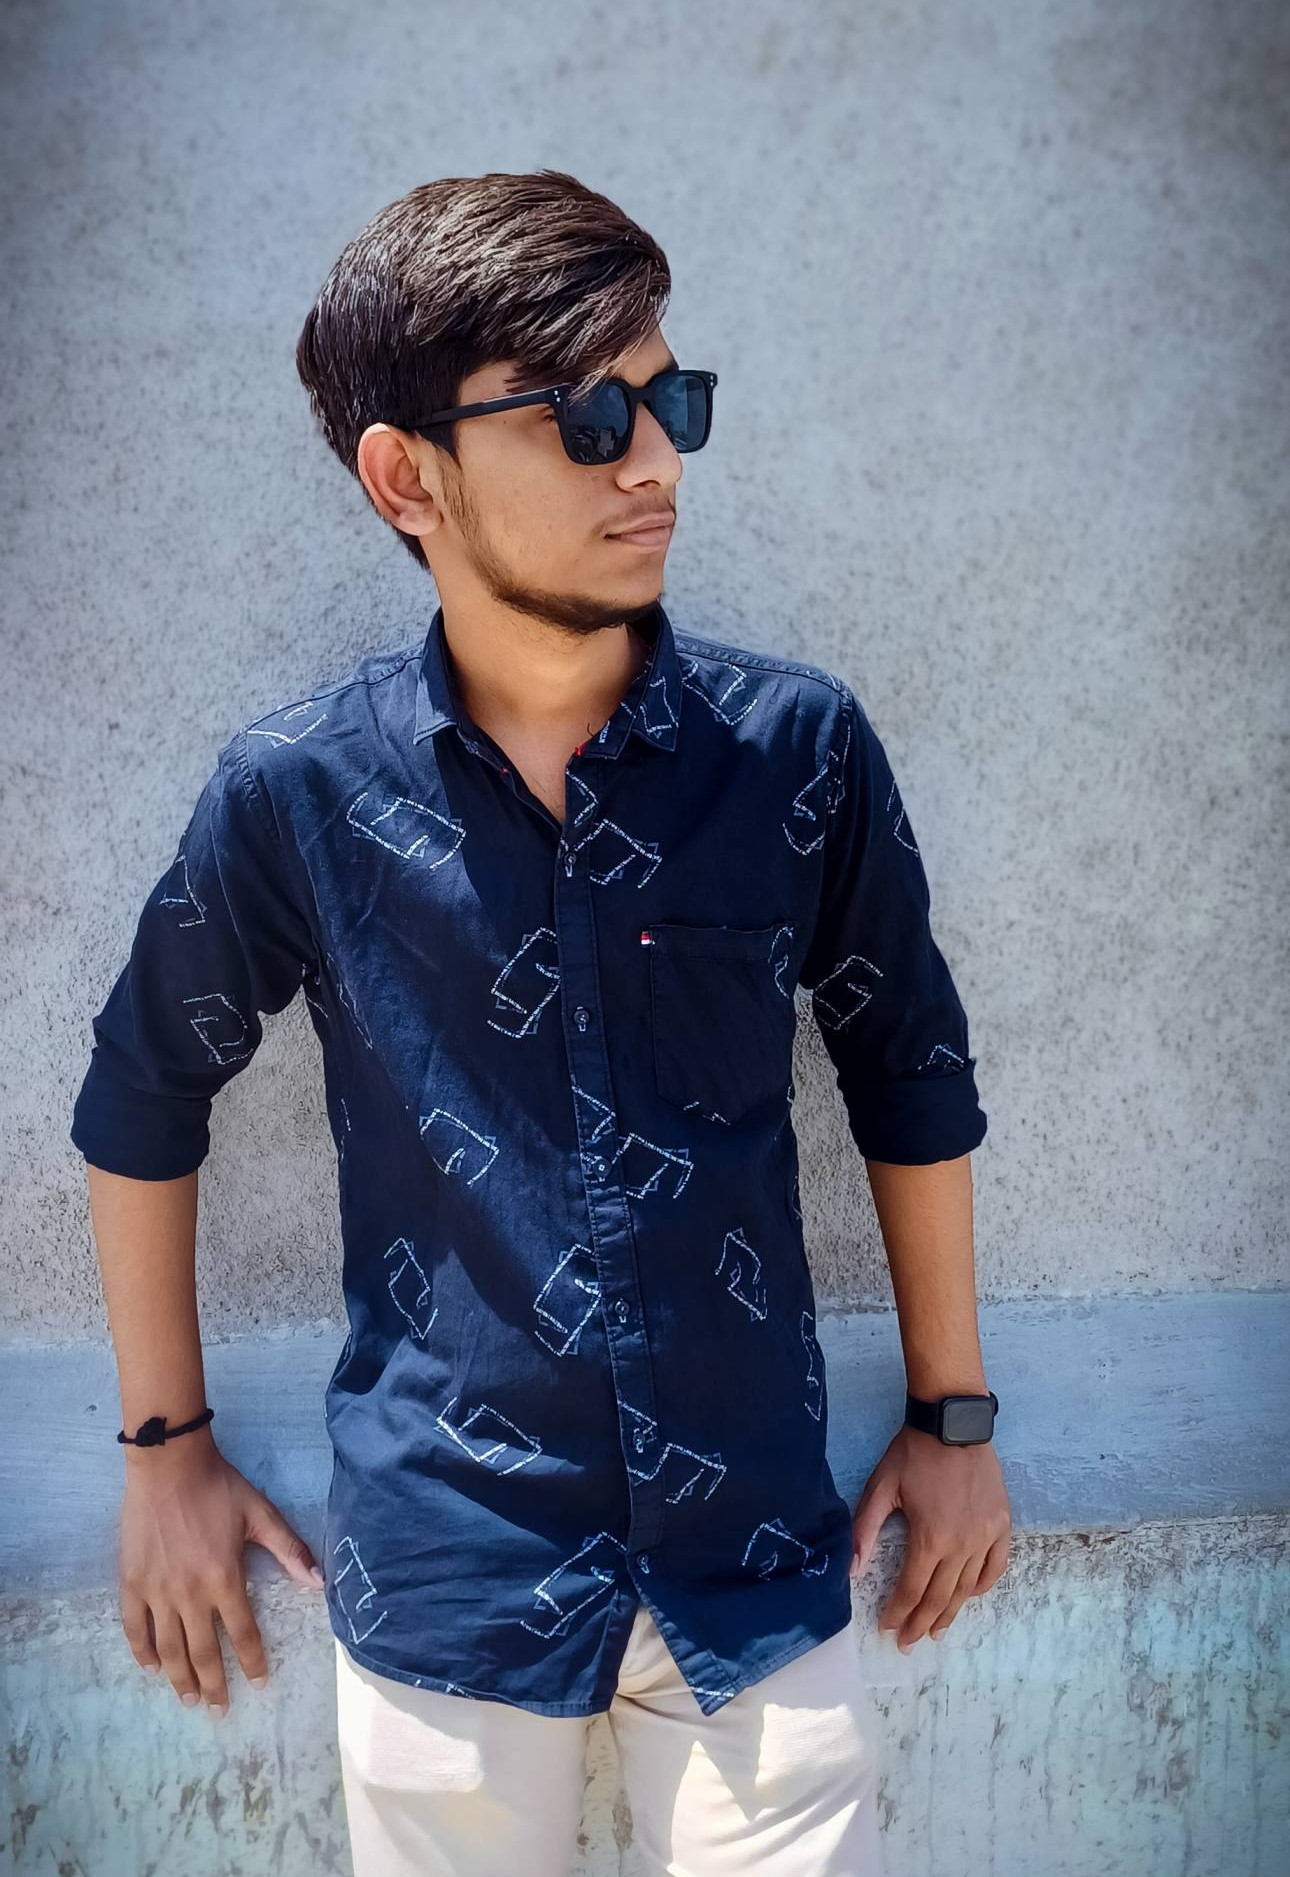
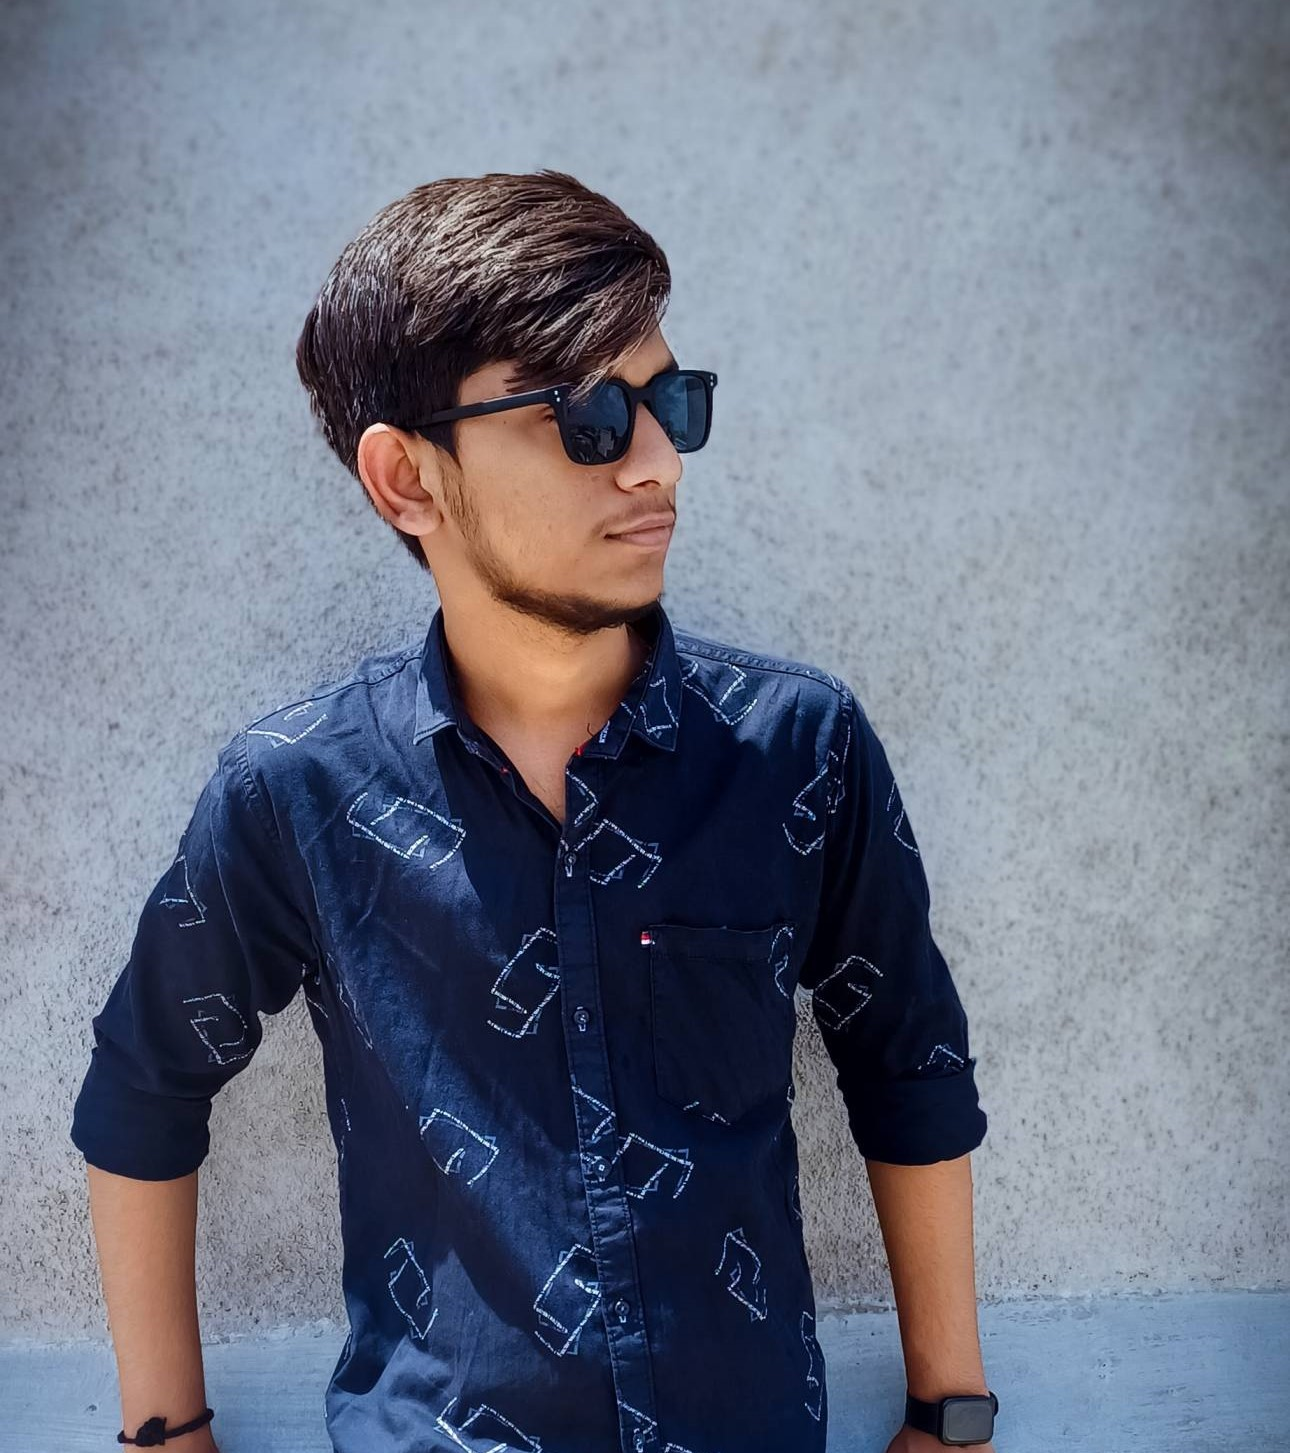
---

diff --git a/src/App.css b/src/App.css
@@ -330,7 +330,7 @@ html {
 
 .navigation {
   height: 100%;
-  width: 40%;
+  width: 45%;
   /* border: 1px solid white; */
   display: flex;
   align-items: center;
@@ -379,7 +379,7 @@ html {
 .devinfo {
   display: flex;
   height: 50%;
-  width: 50%;
+  width: 60%;
   /* border: 2px solid white; */
   flex-direction: column;
   justify-content: space-around;
@@ -387,20 +387,19 @@ html {
 }
 
 .devimg {
-  border: 1px solid white;
   width: 40%;
-  height: 60%;
+  height: 70%;
   display: flex;
   align-items: center;
   justify-content: center;
-  /* animation: jummping 4s infinite; */
 }
 
 .devimg img {
   border-radius: 100%;
   width: 70%;
-  /* height: 80%; */
+  height: 100%;
   filter: drop-shadow(0 0 1rem black);
+
   /* border: 2px solid white; */
 }
 
@@ -476,11 +475,12 @@ i {
   border: none;
   background-color: #0065ff;
   color: white;
-  border-radius: 1rem;
-  width: 20%;
-  height: 16%;
+  border-radius: 0.7rem;
+  width: 16%;
+  height: 14%;
   margin-top: 1.5rem;
-  font-size: 1.8rem;
+  font-size: 1.7rem;
+  letter-spacing: 1px;
   position: relative;
   /* animation: glow 2.5s infinite; */
   /* box-shadow: 0px 0px 2rem #0b4eb4 ; */
@@ -789,7 +789,7 @@ h4 {
   display: flex;
   flex-direction: column;
   justify-content: space-evenly;
-  border-radius: 1rem;
+  border-radius: 0.7rem;
   height: 29vh;
   width: 30%;
   margin: 2rem 2rem;
@@ -822,7 +822,7 @@ h4 {
   font-size: 1.4rem;
   width: 27%;
   /* border: 1px solid; */
-  border-radius: 048rem;
+  border-radius: 0.7rem;
   background-color: #0065ff;
   display: flex;
   align-items: center;

diff --git a/index.html b/index.html
@@ -11,7 +11,7 @@
       rel="stylesheet"
     />
     <meta name="viewport" content="width=device-width, initial-scale=1.0" />
-    <title>Tushar Gadher - Developer</title>
+    <title>Tushar Gadher | PortFolio</title>
   </head>
   <body>
     <div class="preloader">

diff --git a/src/Componet/Home.jsx b/src/Componet/Home.jsx
@@ -1,5 +1,5 @@
 import React from "react";
-import svg from "../Media/Class.jpg";
+import svg from "../Media/homeprofile2.jpg";
 const Home = () => {
   const scrollToSection = () => {
     window.scrollTo({
